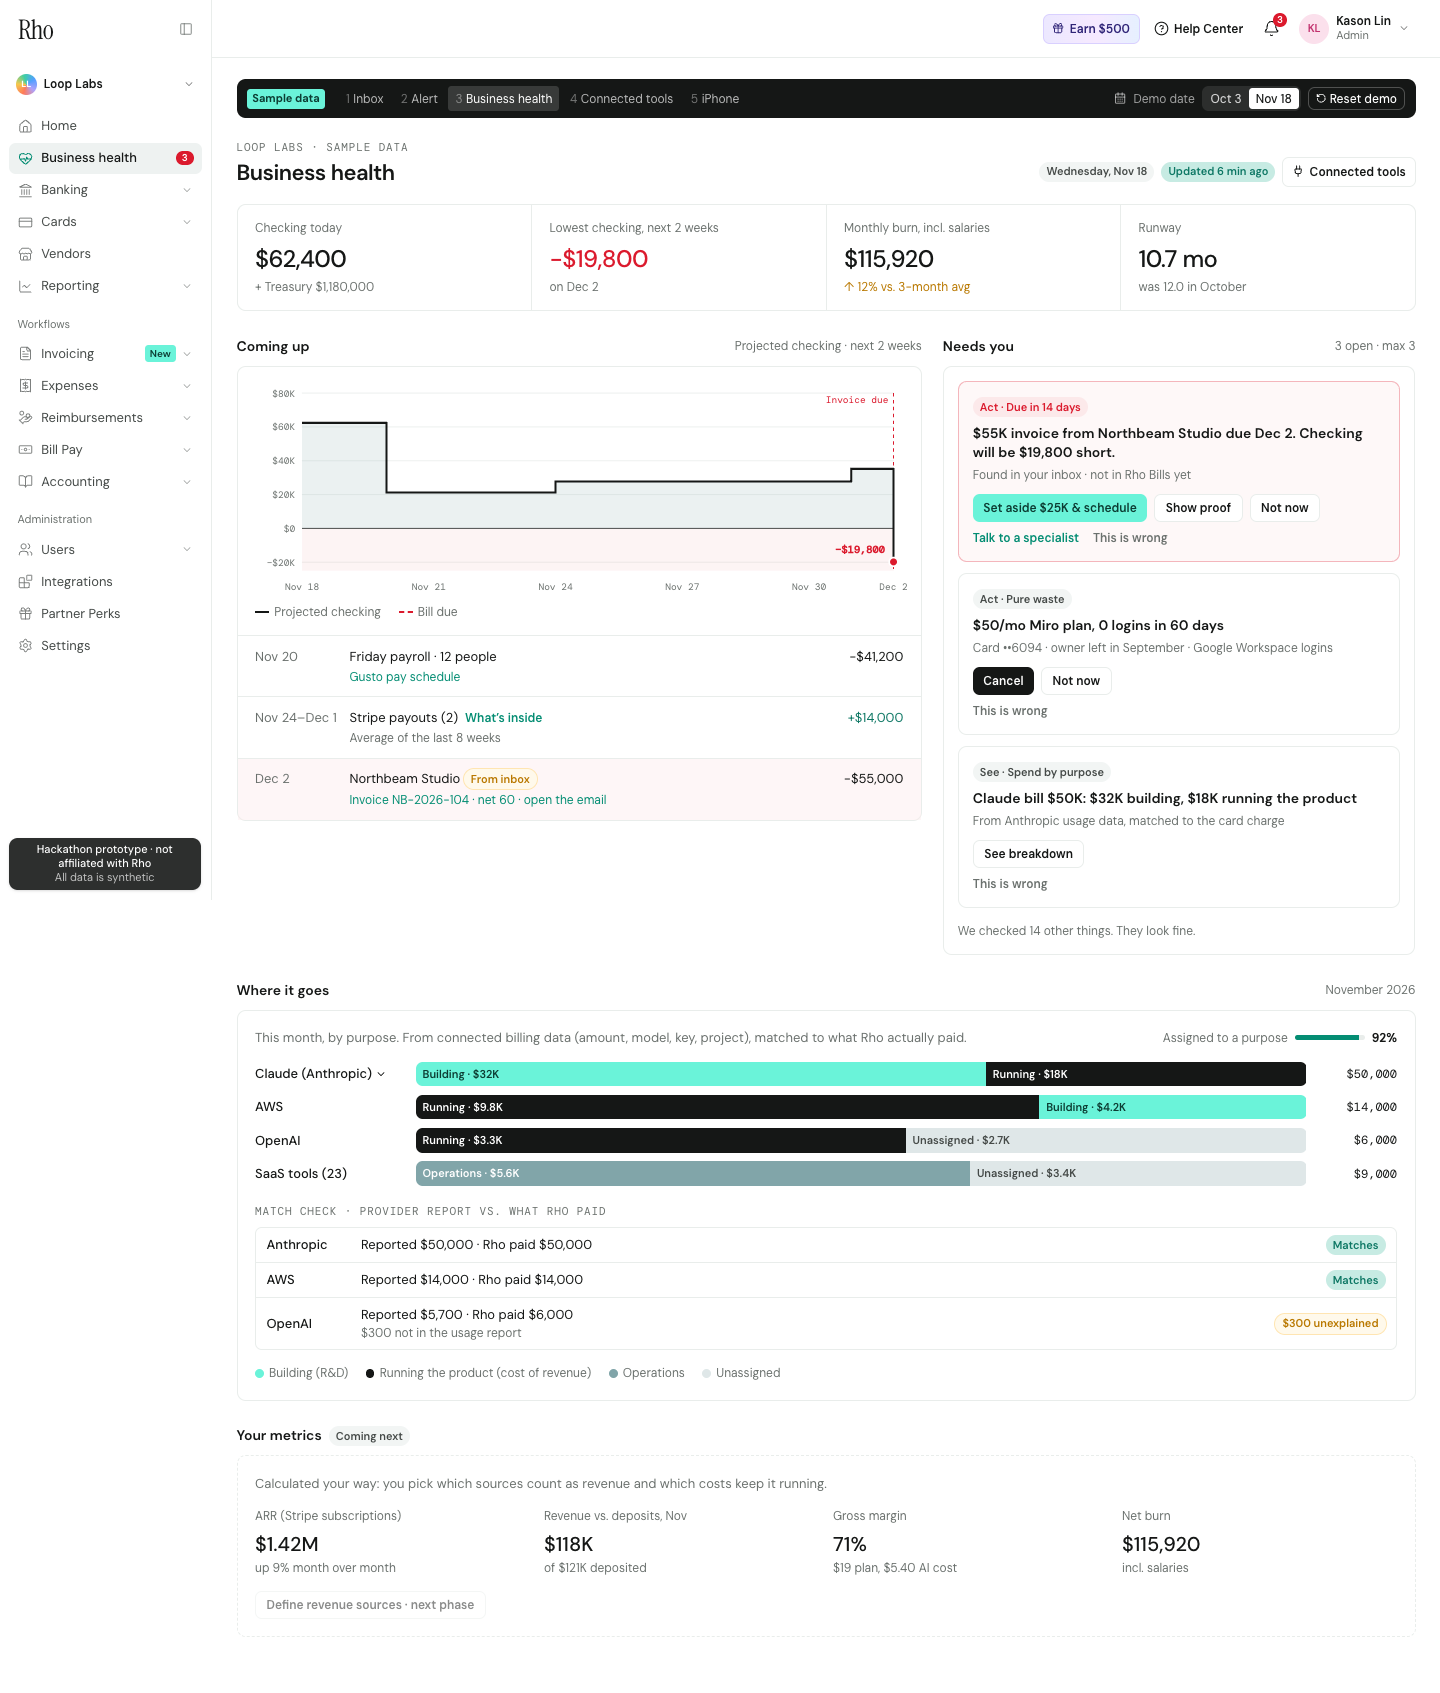
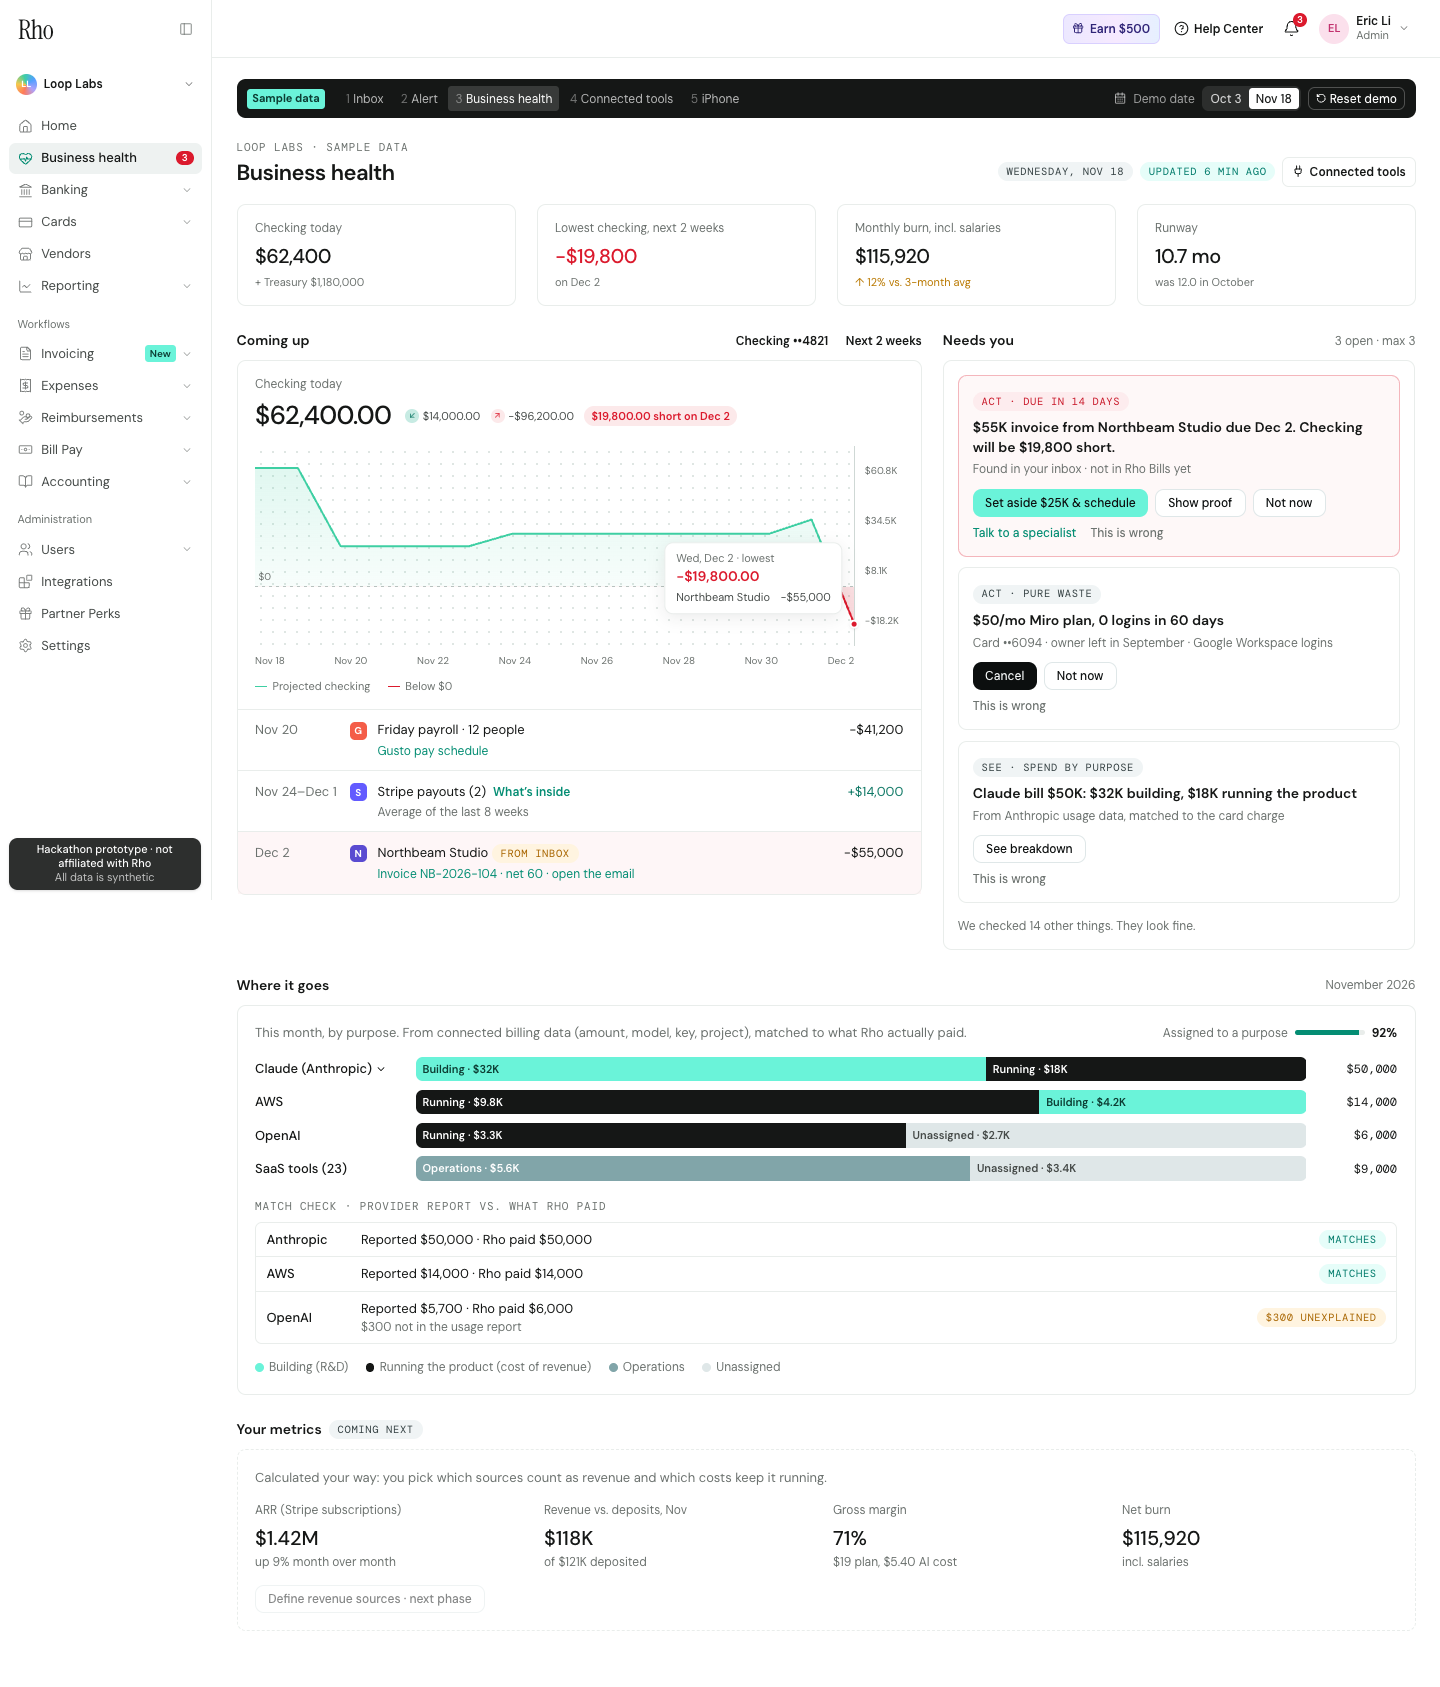
Founder is now Eric Li (eric@looplabs.example); old ?as=kason links still work

diff --git a/scripts/smoke.ts b/scripts/smoke.ts
@@ -48,20 +48,20 @@ async function main() {
   const preview = (await call('GET', '/api/health/forecast?transfer=15000&pay_date=2026-12-02')).body.preview;
   check('4. editing to $15K previews a $4,800 gap', preview.shortfall === 4800);
   check('   a teammate can’t approve', (await call('POST', '/api/health/approve', { transfer_amount: 25000, pay_date: '2026-12-02', as: 'ana' })).status === 403);
-  check('   paying after the due date is refused', (await call('POST', '/api/health/approve', { transfer_amount: 25000, pay_date: '2026-12-03', as: 'kason' })).status === 422);
-  const approved = await call('POST', '/api/health/approve', { transfer_amount: 25000, pay_date: '2026-12-02', as: 'kason' });
+  check('   paying after the due date is refused', (await call('POST', '/api/health/approve', { transfer_amount: 25000, pay_date: '2026-12-03', as: 'eric' })).status === 422);
+  const approved = await call('POST', '/api/health/approve', { transfer_amount: 25000, pay_date: '2026-12-02', as: 'eric' });
   check('   approve $25K + pay Dec 2: gap gone', approved.status === 200 && approved.body.forecast.shortfall === 0, `lowest ${approved.body.forecast?.low.balance}`);
   check('   invoice shows as scheduled, receipt exists', approved.body.obligations.find((o: { kind: string }) => o.kind === 'invoice').status === 'scheduled' && !!approved.body.approval.reference);
-  check('   approving twice is refused', (await call('POST', '/api/health/approve', { transfer_amount: 25000, pay_date: '2026-12-02', as: 'kason' })).status === 409);
+  check('   approving twice is refused', (await call('POST', '/api/health/approve', { transfer_amount: 25000, pay_date: '2026-12-02', as: 'eric' })).status === 409);
   check('   the Figma duplicate shows up next', approved.body.needs_you.cards[0].type === 'duplicate' && approved.body.forecast_before.shortfall === 19800);
 
   const undone = await call('POST', '/api/health/undo');
   check('   Undo brings the gap back', undone.body.approval === null && undone.body.forecast.shortfall === 19800);
-  await call('POST', '/api/health/approve', { transfer_amount: 25000, pay_date: '2026-12-02', as: 'kason' });
+  await call('POST', '/api/health/approve', { transfer_amount: 25000, pay_date: '2026-12-02', as: 'eric' });
 
   check('   a teammate can’t dispute', (await call('POST', '/api/health/act', { card_id: 'dup-figma', action: 'dispute', as: 'ana' })).status === 403);
-  const disputed = await call('POST', '/api/health/act', { card_id: 'dup-figma', action: 'dispute', as: 'kason' });
-  const cancelled = await call('POST', '/api/health/act', { card_id: 'sub-miro', action: 'cancel', as: 'kason' });
+  const disputed = await call('POST', '/api/health/act', { card_id: 'dup-figma', action: 'dispute', as: 'eric' });
+  const cancelled = await call('POST', '/api/health/act', { card_id: 'sub-miro', action: 'cancel', as: 'eric' });
   check('   dispute + cancel: both handled, crossed out', disputed.status === 200 && cancelled.body.needs_you.handled.length === 3);
   const wrong = await call('POST', '/api/health/feedback', { card_id: 'spend', kind: 'wrong', reason: 'The split by purpose is wrong' });
   check('   "This is wrong" removes the card', wrong.body.needs_you.cards.length === 0);

diff --git a/src/components/shell/viewer.tsx b/src/components/shell/viewer.tsx
@@ -1,7 +1,7 @@
 'use client';
 /**
  * Who the demo is "logged in" as. There's no real login in the prototype; the avatar menu (or ?as= in
- * the URL) picks Kason (founder, admin), Jordan (admin), Ana (teammate) or Dana (Rho account manager).
+ * the URL) picks Eric (founder, admin), Jordan (admin), Ana (teammate) or Dana (Rho account manager).
  */
 import { createContext, useContext, useEffect, useMemo, useState } from 'react';
 import usersFile from '@/data/business-health/users.json';
@@ -17,7 +17,7 @@ type ViewerState = { viewer: AppUser; users: AppUser[]; setViewer: (id: string) 
 const ViewerContext = createContext<ViewerState>({ viewer: USERS[0], users: USERS, setViewer: () => {} });
 
 export function ViewerProvider({ children }: { children: React.ReactNode }) {
-  const [id, setId] = useState('kason');
+  const [id, setId] = useState('eric');
 
   useEffect(() => {
     const fromUrl = new URLSearchParams(window.location.search).get('as');

diff --git a/src/components/health/alert-email.tsx b/src/components/health/alert-email.tsx
@@ -22,7 +22,7 @@ export function AlertEmailBody({ data }: { data: HealthView }) {
         <span className="font-mono text-[10.5px] tracking-[0.06em] text-[#6af3d9] uppercase">Business health</span>
       </div>
       <div className="space-y-4 px-6 py-6 text-[14px] text-[#1b2122]">
-        <p>Hi {data.invoice_email ? 'Kason' : 'there'},</p>
+        <p>Hi {data.invoice_email ? 'Eric' : 'there'},</p>
         <Chip tone="red">Needs you · due {shortDay(alert.invoice.due)}</Chip>
         <h3 className="text-[20px] leading-snug font-normal tracking-[-0.01em] text-[#0c0f0f]">
           {alert.invoice.vendor}’s {formatUSDShort(alert.invoice.amount)} invoice is due in {alert.days_until_due} days. Checking will be {formatUSDShort(alert.short_by)} short.

diff --git a/src/app/mailbox/page.tsx b/src/app/mailbox/page.tsx
@@ -81,7 +81,7 @@ function Mailbox() {
             <div className="flex flex-1 items-center gap-3 rounded-full bg-[#e9eef6] px-4 py-2.5 text-[14px] text-[#444746]">
               <Search className="size-4" /> Search mail
             </div>
-            <span className="grid size-8 place-items-center rounded-full bg-[#fbe0ec] text-[12px] font-semibold text-[#c2316e]">KL</span>
+            <span className="grid size-8 place-items-center rounded-full bg-[#fbe0ec] text-[12px] font-semibold text-[#c2316e]">EL</span>
           </div>
 
           {!data && <p className="p-6 text-[14px] text-[#444746]">Loading…</p>}

diff --git a/src/lib/health/__tests__/health.test.ts b/src/lib/health/__tests__/health.test.ts
@@ -57,7 +57,7 @@ describe('forecast and alert on Nov 18', () => {
 });
 
 describe('needs you', () => {
-  const approved = { ...nov18, approval: { transfer_amount: 25000, pay_date: '2026-12-02', approved_at: '', approved_by: 'Kason Lin', reference: 'BH-1' } };
+  const approved = { ...nov18, approval: { transfer_amount: 25000, pay_date: '2026-12-02', approved_at: '', approved_by: 'Eric Li', reference: 'BH-1' } };
 
   it('before approval: the invoice first, then the unused tool, then spend by purpose', () => {
     const v = healthView(nov18);

diff --git a/scripts/screenshots.ts b/scripts/screenshots.ts
@@ -23,7 +23,7 @@ async function main() {
   const page = await browser.newPage({ viewport: { width: 1440, height: 900 }, deviceScaleFactor: 1 });
 
   // Home: Rho's dashboard, with Business health on top
-  await page.goto(`${BASE}/?as=kason`);
+  await page.goto(`${BASE}/?as=eric`);
   await page.getByText('Top outflows').waitFor();
   await page.request.post(`${BASE}/api/health/reset`);
   await shot(page, '00-home');

diff --git a/src/lib/health/viewer-id.ts b/src/lib/health/viewer-id.ts
@@ -1,5 +1,5 @@
 /** Normalize a ?as= value: default to the founder, and keep old ?as=maya links working. */
 export function viewerId(id: string | null | undefined): string {
-  if (!id || id === 'maya') return 'kason';
+  if (!id || id === 'maya' || id === 'kason') return 'eric';   // older links and saved choices
   return id;
 }

diff --git a/docs/demo-script.md b/docs/demo-script.md
@@ -1,6 +1,6 @@
 # 90-second demo: "The invoice nobody entered"
 
-**One story:** Kason Lin runs Loop Labs, a 12-person startup on Rho. A design agency's $55K invoice sat in email for weeks. Rho finds it, sees checking will come up short, and gets the fix approved in one tap.
+**One story:** Eric Li runs Loop Labs, a 12-person startup on Rho. A design agency's $55K invoice sat in email for weeks. Rho finds it, sees checking will come up short, and gets the fix approved in one tap.
 
 **The point to land:** Rho already has the bank data. Connect your inbox and tools (read-only), and Rho sees what you owe before it's due. You just say yes.
 
